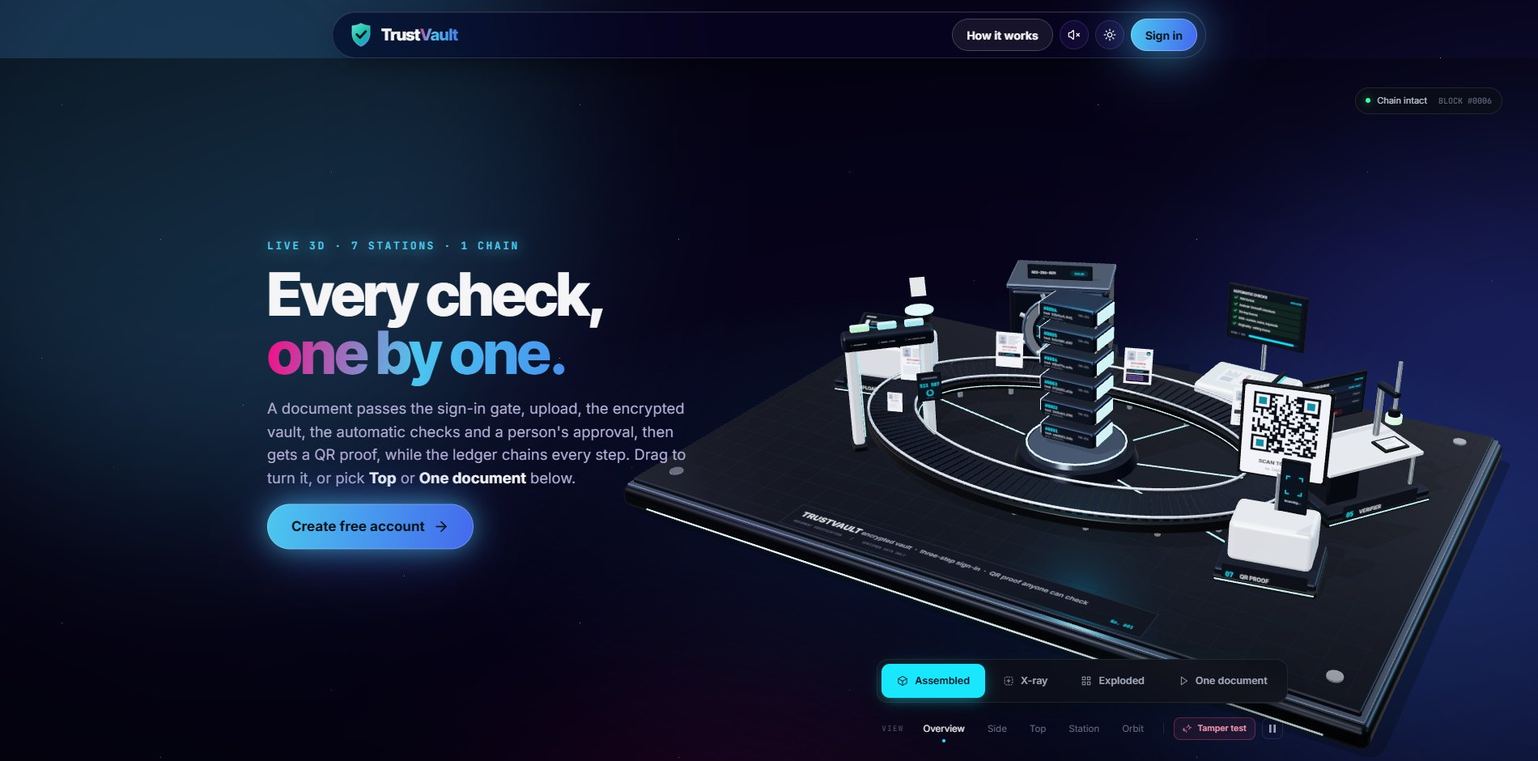
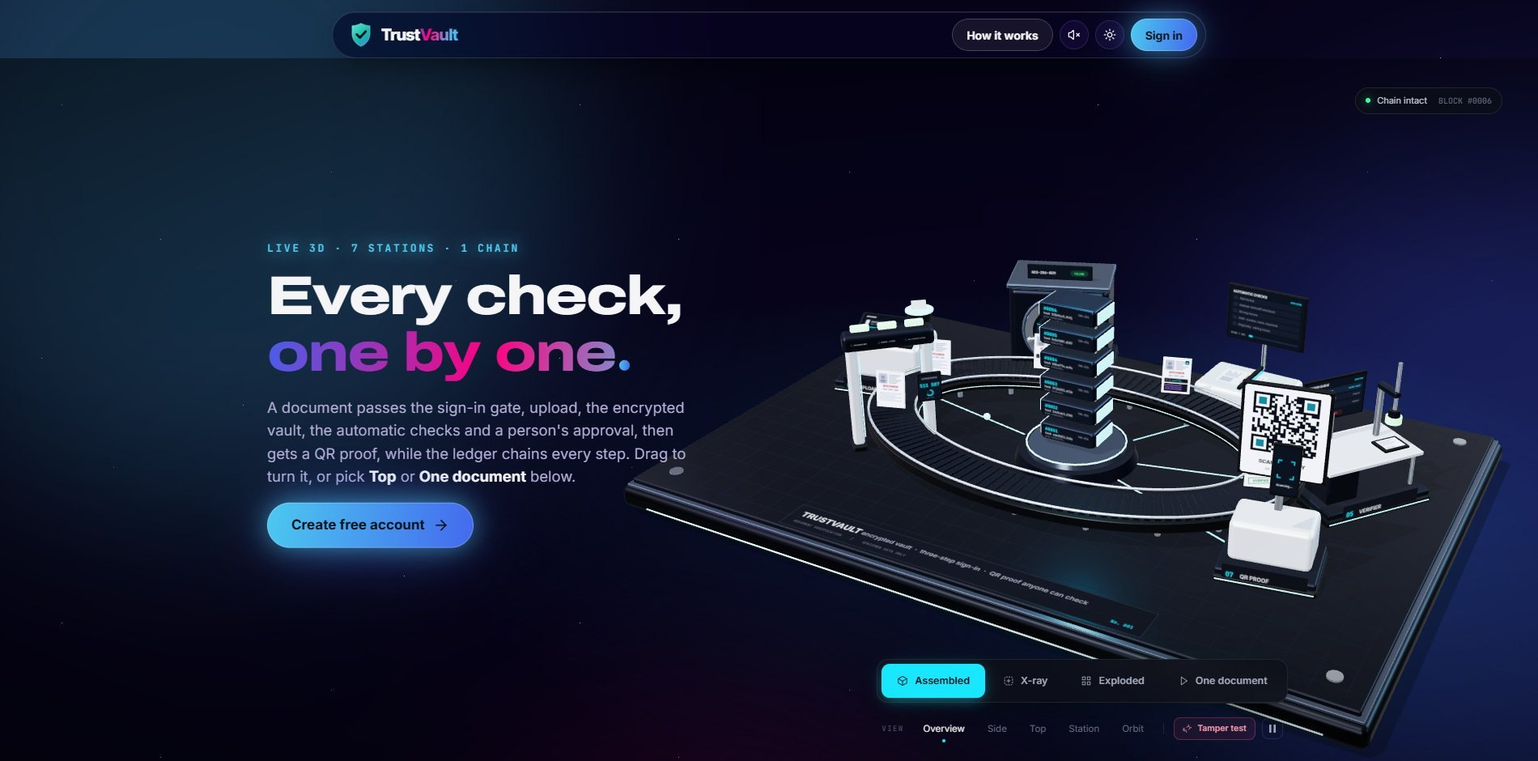
Kinetic heading on the main page: Every check, one by one
After the owner's prompt-motion reference film: Archivo wide 800 rises out of a mask line, 'one by one'
squeezes like an accordion into its full stop, the stop becomes a pill that shows OCR, Checksum,
Number match, Score 96% and Verified, then the letters spring back out. Pure function of the clock
(closed-form springs), pauses off screen, plain sentence for screen readers, still with reduced motion.
Browser check added (Chrome and Edge 48/48), sprint 3 review and README pictures updated.

diff --git a/client/src/pages/landing-headline.jsx b/client/src/pages/landing-headline.jsx
@@ -1,0 +1,165 @@
+// "Every check, one by one." as kinetic type, after the prompt-motion "develop." film by @twoclipping:
+// wide heavy type rises out of a mask line; "one by one" squeezes like an accordion into its full stop,
+// the stop grows into a pill that shows each check in turn (OCR, Checksum, Number match, Score, Verified),
+// then shrinks back into the stop and the letters spring back out. Every style is a pure function of the
+// clock (closed-form springs, no CSS transitions or timers), so the loop never drifts. It pauses off screen.
+// Reduced motion: the still heading. Screen readers get the plain sentence.
+import { useEffect, useRef } from 'react';
+import { Check, ShieldCheck } from 'lucide-react';
+
+const PERIOD = 12; // seconds per loop; the heading rests from 9.2 s to 15 s (= 3 s into the next loop)
+const SQUEEZE = 3; // letters fold into the stop
+const GROW = 3.45; // the stop becomes a pill
+const SHRINK = 8.1; // the pill becomes the stop again
+const BACK = 8.5; // letters spring back out
+const LABELS = [
+  { at: 3.7, text: 'OCR', icon: 'check' },
+  { at: 4.45, text: 'Checksum', icon: 'check' },
+  { at: 5.2, text: 'Number match', icon: 'check' },
+  { at: 5.95, text: 'Score', icon: 'score' },
+  { at: 6.95, text: 'Verified', icon: 'shield' },
+];
+const OUT = SHRINK - 0.1; // the last label leaves just before the pill shrinks
+
+// Closed-form step response of a damped spring, 0 -> 1 (w: stiffness as angular frequency, z: damping ratio).
+function spring(t, w = 20, z = 0.7) {
+  if (t <= 0) return 0;
+  const wd = w * Math.sqrt(1 - z * z);
+  return 1 - Math.exp(-z * w * t) * (Math.cos(wd * t) + ((z * w) / wd) * Math.sin(wd * t));
+}
+const ease = (x) => Math.min(1, Math.max(0, x));
+// Width of the letters, 1 = full: an accelerating fold into the stop, then a bouncy spring back.
+const fold = (t) => (t < BACK ? 1 - ease((t - SQUEEZE) / 0.42) ** 3 : spring(t - BACK, 17, 0.66)); // ~6% overshoot: a bounce that stays inside the margin
+
+export function CheckHeadline({ id }) {
+  const root = useRef(null);
+
+  useEffect(() => {
+    const el = root.current;
+    if (!el || matchMedia('(prefers-reduced-motion: reduce)').matches) return undefined;
+    const word = el.querySelector('.kt-word');
+    const slot = el.querySelector('.kt-slot');
+    const pill = el.querySelector('.kt-pill');
+    const paint = el.querySelector('.kt-paint');
+    const bar = el.querySelector('.kt-bar');
+    const blur = el.querySelector('feGaussianBlur');
+    const labels = [...el.querySelectorAll('.kt-label')];
+    const icons = labels.map((l) => l.querySelector('.kt-ico'));
+    const num = el.querySelector('.kt-num');
+    let m = null; // measurements in px, taken when the font is in and on every resize
+
+    const measure = () => {
+      const fs = parseFloat(getComputedStyle(el).fontSize);
+      const d = slot.offsetWidth;
+      const h = fs * 0.82;
+      const pad = fs * 0.32;
+      m = {
+        d, h, pad,
+        dotX: slot.offsetLeft, dotY: slot.offsetTop + slot.offsetHeight - d, // the stop sits on the baseline
+        midY: word.offsetTop + word.offsetHeight * 0.52 - h / 2, // pill centred on the line
+        widths: labels.map((l) => l.scrollWidth + pad * 2),
+      };
+    };
+
+    const seek = (t) => {
+      if (!m) return;
+      const { d, h, pad, dotX, dotY, midY, widths } = m;
+      // letters: accordion fold toward the stop, horizontal motion blur from the speed
+      const k = fold(t);
+      const speed = Math.abs(k - fold(t - 1 / 60)) * 60;
+      word.style.transform = `scaleX(${Math.max(0.001, k).toFixed(4)})`;
+      word.style.opacity = k < 0.02 ? '0' : '1';
+      const b = Math.min(10, speed * 2.2);
+      blur.setAttribute('stdDeviation', `${b.toFixed(2)} 0`);
+      word.style.filter = b > 0.15 ? 'url(#kt-mb)' : 'none';
+
+      // the stop -> pill -> stop: one spring per change of size and place
+      const grow = spring(t - GROW, 16, 0.62);
+      const shrink = spring(t - SHRINK, 18, 0.72);
+      const open = grow - shrink;
+      let w = d + (widths[0] - d) * grow;
+      LABELS.forEach((_, i) => { if (i) w += (widths[i] - widths[i - 1]) * spring(t - LABELS[i].at, 18, 0.7); });
+      w += (d - widths[widths.length - 1]) * shrink;
+      const ph = d + (h - d) * open;
+      const x = dotX * (1 - spring(t - GROW, 14, 0.78) + spring(t - SHRINK, 15, 0.8));
+      const y = dotY + (midY - dotY) * open;
+      pill.style.transform = `translate(${x.toFixed(2)}px, ${y.toFixed(2)}px)`;
+      pill.style.width = `${Math.max(d, w).toFixed(2)}px`;
+      pill.style.height = `${Math.max(d, ph).toFixed(2)}px`;
+
+      // labels rise out of the pill's mask line and leave through the top; icons pop on a spring
+      labels.forEach((l, i) => {
+        const inT = LABELS[i].at;
+        const outT = LABELS[i + 1]?.at ?? OUT;
+        const p = spring(t - inT, 22, 0.8) - spring(t - outT, 22, 0.8);
+        const yy = (1 - spring(t - inT, 22, 0.8)) * h - spring(t - outT, 22, 0.8) * h;
+        l.style.transform = `translate(${pad}px, ${yy.toFixed(2)}px)`;
+        l.style.visibility = p > 0.001 ? 'inherit' : 'hidden';
+        if (icons[i]) icons[i].style.transform = `scale(${Math.max(0, spring(t - inT - 0.12, 26, 0.45)).toFixed(3)})`;
+      });
+      // the score counts up while a bar draws across the bottom of the pill
+      const s = LABELS[3].at;
+      const sc = ease((t - s - 0.1) / 0.75);
+      num.textContent = `${Math.round(96 * (1 - (1 - sc) ** 3))}%`;
+      bar.style.transform = `scaleX(${sc.toFixed(3)})`;
+      bar.style.opacity = t > s && t < LABELS[4].at + 0.15 ? '1' : '0';
+      // Verified paints the pill green from the left
+      paint.style.transform = `scaleX(${Math.max(0, spring(t - LABELS[4].at, 14, 0.85) - spring(t - SHRINK, 22, 0.9)).toFixed(3)})`;
+    };
+
+    let clock = 0;
+    let last = performance.now();
+    let raf = 0;
+    let onScreen = true;
+    let frozen = false;
+    // For screenshots and browser tests: show the heading at time t (seconds into the loop) and hold it there.
+    el.seekForTest = (t) => { frozen = true; clock = t % PERIOD; seek(clock); };
+    const frame = (now) => {
+      raf = requestAnimationFrame(frame);
+      const dt = Math.min(0.05, (now - last) / 1000);
+      last = now;
+      if (!onScreen || frozen) return;
+      clock = (clock + dt) % PERIOD;
+      seek(clock);
+    };
+    const io = new IntersectionObserver(([e]) => { onScreen = e.isIntersecting; });
+    io.observe(el);
+    const ro = new ResizeObserver(() => { measure(); seek(clock); });
+    let alive = true; // the font can arrive after this effect was cleaned up (and React StrictMode mounts twice)
+    document.fonts.load('800 expanded 1em Archivo').catch(() => {}).then(() => { // expanded = the 125% width
+      if (!alive) return;
+      measure();
+      ro.observe(el);
+      ro.observe(word); // the word changes size when the web font swaps in
+      el.classList.add('kt-live');
+      raf = requestAnimationFrame(frame);
+    });
+    return () => { alive = false; cancelAnimationFrame(raf); io.disconnect(); ro.disconnect(); el.classList.remove('kt-live'); };
+  }, []);
+
+  return (
+    <h2 id={id} className="kt" ref={root}>
+      <span className="sr-only">Every check, one by one.</span>
+      <span className="kt-line" aria-hidden="true"><span>Every check,</span></span>
+      <span className="kt-line kt-l2" aria-hidden="true">
+        <span className="kt-rise">
+          <span className="kt-word">one by one</span><span className="kt-slot" />
+          <span className="kt-pill">
+            <span className="kt-paint" />
+            {LABELS.map((l) => (
+              <span key={l.text} className={`kt-label ${l.icon === 'shield' ? 'kt-ok' : ''}`}>
+                {l.icon === 'check' && <span className="kt-ico"><Check /></span>}
+                {l.icon === 'shield' && <span className="kt-ico"><ShieldCheck /></span>}
+                {l.text}{l.icon === 'score' && <b className="kt-num">96%</b>}
+              </span>
+            ))}
+            <span className="kt-bar" />
+          </span>
+        </span>
+      </span>
+      <svg width="0" height="0" className="absolute" aria-hidden="true" focusable="false">
+        <filter id="kt-mb" x="-30%" y="0" width="160%" height="100%"><feGaussianBlur stdDeviation="0 0" /></filter>
+      </svg>
+    </h2>
+  );
+}

diff --git a/client/src/landing.css b/client/src/landing.css
@@ -79,7 +79,25 @@
 /* ---------- first screen: the 3D vault (components/ui/trustvault-3d.jsx); copy above it on phones, beside it on wide screens ---------- */
 .lp-3d { position: relative; z-index: 2; }
 .lp-3d-copy { position: relative; z-index: 3; display: grid; justify-items: start; gap: 18px; width: min(560px, calc(100% - 40px)); margin: clamp(28px, 5vh, 56px) auto 0; }
-.lp-3d-copy h2 { font-size: clamp(2.3rem, 5.2vw, 4.6rem); line-height: 0.98; font-weight: 800; letter-spacing: -0.035em; }
+/* the heading as kinetic type (pages/landing-headline.jsx): Archivo wide 800, like the prompt-motion "develop." film */
+.kt { --kt-a: var(--cyan); --kt-b: var(--purple); --kt-c: var(--hot); position: relative; font: 800 clamp(2rem, 10.4vw, 4.2rem)/1.04 "Archivo", var(--font-display); font-stretch: 125%; letter-spacing: -0.04em; }
+:root:not(.dark) .kt { --kt-a: #0891b2; --kt-b: #6366f1; --kt-c: #4f46e5; --kt-ok: #4ade80; } /* bright green keeps the dark Verified text readable */
+.kt-line { display: block; white-space: nowrap; clip-path: inset(-0.3em -100vw -0.32em -100vw); } /* the mask line the words rise out of */
+.kt-line > span { display: inline-block; animation: lp-line 1.1s var(--ease-out-expo) both; }
+.kt-l2 > span { animation-delay: 0.14s; }
+.kt-rise { position: relative; }
+.kt-word { display: inline-block; transform-origin: 100% 50%; padding-right: 0.02em; background: linear-gradient(100deg, var(--kt-a), var(--kt-b) 45%, var(--kt-c) 75%, var(--kt-a)) 0 0 / 220% 100%; -webkit-background-clip: text; background-clip: text; color: transparent; animation: shimmer 5s linear infinite; }
+.kt-slot { display: inline-block; width: 0.2em; height: 0.2em; margin-left: 0.05em; border-radius: 50%; background: var(--kt-a); }
+.kt-pill { display: none; position: absolute; left: 0; top: 0; overflow: hidden; border-radius: 999px; background: linear-gradient(100deg, var(--kt-a), var(--kt-b)); color: var(--on-accent); box-shadow: 0 0 34px -8px var(--kt-a); }
+.kt-live .kt-slot { visibility: hidden; }
+.kt-live .kt-pill { display: block; }
+.kt-paint { position: absolute; inset: 0; background: var(--kt-ok, var(--success)); transform: scaleX(0); transform-origin: 0 50%; }
+.kt-label { position: absolute; left: 0; top: 0; display: flex; align-items: center; gap: 0.35em; height: 2.41em; font: 700 max(12px, 0.34em)/1 var(--font-sans); font-stretch: 100%; letter-spacing: 0; white-space: nowrap; visibility: hidden; }
+.kt-ok { color: #04140c; } /* on the green paint */
+.kt-ico { display: grid; place-items: center; width: 1.25em; height: 1.25em; border-radius: 50%; background: color-mix(in srgb, currentColor 18%, transparent); }
+.kt-ico svg { width: 0.8em; height: 0.8em; stroke-width: 3; }
+.kt-num { font-variant-numeric: tabular-nums; }
+.kt-bar { position: absolute; left: 0.32em; right: 0.32em; bottom: 0.12em; height: 0.045em; border-radius: 9px; background: currentColor; transform: scaleX(0); transform-origin: 0 50%; opacity: 0; }
 .lp-3d-copy p { max-width: 46ch; font-size: clamp(1rem, 1.25vw, 1.15rem); line-height: 1.55; color: var(--muted-foreground); }
 .lp-3d-copy b { color: var(--foreground); }
 .lp-3d-stage { position: relative; height: clamp(420px, 105vw, 640px); } /* the machine is fitted to the width on narrow screens */
@@ -91,6 +109,7 @@
 @media (min-width: 901px) {
   .lp-3d { height: clamp(620px, calc(100svh - 70px), 980px); }
   .lp-3d-copy { position: absolute; top: 50%; left: max(28px, calc(50% - 620px)); width: min(38%, 520px); margin: 0; transform: translateY(-55%); }
+  .kt { font-size: clamp(2.2rem, 4.6vw, 4.2rem); }
   .lp-3d-stage { position: absolute; inset: 0; height: auto; }
   .lp-3d-wait { left: 42%; }
 }

diff --git a/client/index.html b/client/index.html
@@ -19,7 +19,7 @@
     <script type="application/ld+json">{"@context":"https://schema.org","@type":"SoftwareApplication","name":"TrustVault","applicationCategory":"SecurityApplication","operatingSystem":"Web, Android","url":"https://trustvault-5lgg.onrender.com/welcome","description":"Digital identity and document verification portal with an encrypted vault, three-step sign-in and QR proof anyone can check.","author":{"@type":"Person","name":"SriNithish J K","url":"https://github.com/SriNithish-JK"},"codeRepository":"https://github.com/SriNithish-JK/TrustVault","offers":{"@type":"Offer","price":"0","priceCurrency":"USD"}}</script>
     <link rel="preconnect" href="https://fonts.googleapis.com" />
     <link rel="preconnect" href="https://fonts.gstatic.com" crossorigin />
-    <link href="https://fonts.googleapis.com/css2?family=Inter:wght@400;500;600;700;800&family=JetBrains+Mono:wght@400;500;600;700&family=Inter+Tight:wght@600;700;800;900&display=swap" rel="stylesheet" />
+    <link href="https://fonts.googleapis.com/css2?family=Inter:wght@400;500;600;700;800&family=JetBrains+Mono:wght@400;500;600;700&family=Inter+Tight:wght@600;700;800;900&family=Archivo:wdth,wght@125,800&display=swap" rel="stylesheet" />
     <title>TrustVault - digital identity and document verification portal</title>
   </head>
   <body>

diff --git a/client/src/pages/Landing.jsx b/client/src/pages/Landing.jsx
@@ -15,6 +15,7 @@ import { ParticleShield } from '@/lib/motion-kit';
 import { StoryScroll } from './landing-story';
 import { ApprovalZoom } from './landing-zoom';
 import { HeroCard } from './landing-hero';
+import { CheckHeadline } from './landing-headline';
 
 // three.js is large, so the 3D vault loads on its own after the page.
 // ponytail: if that chunk fails to load, the stage stays empty beside the headline; a retry button is the upgrade.
@@ -199,7 +200,7 @@ function Vault3D() {
     <section className="lp-3d" aria-labelledby="lp-3d-title">
       <div className="lp-3d-copy">
         <span className="lp-eyebrow lp-in">Live 3D · 7 stations · 1 chain</span>
-        <h2 id="lp-3d-title" className="lp-in" style={{ animationDelay: '0.1s' }}>Every check, <span className="lp-neon whitespace-nowrap">one by one.</span></h2>
+        <CheckHeadline id="lp-3d-title" />
         <p className="lp-in" style={{ animationDelay: '0.2s' }}>
           A document passes the sign-in gate, upload, the encrypted vault, the automatic checks and a person&apos;s approval, then gets a QR proof,
           while the ledger chains every step. Drag to turn it, or pick <b>Top</b> or <b>One document</b> below.

diff --git a/docs/agile/sprint-3-review.md b/docs/agile/sprint-3-review.md
@@ -2,7 +2,7 @@
 
 Backlog and acceptance criteria: [sprint-3-backlog.md](sprint-3-backlog.md).
 
-**Result:** all 3 stories done. 5 problems found while checking frames in a real browser, all fixed before release.
+**Result:** all 4 stories done. 10 problems found while checking frames in a real browser, all fixed before release.
 
 ## Story by story
 
@@ -10,6 +10,7 @@ Backlog and acceptance criteria: [sprint-3-backlog.md](sprint-3-backlog.md).
 |---|---|---|---|
 | US-1 | 3D vault, first screen | Done | `client/src/components/ui/trustvault-3d.jsx` (three.js, from the owner's brief) is the first section of the main page: the headline "Every check, one by one." and *Create free account* on the left, the machine on the right (stacked on phones). Modes, views, Top, One document and Tamper test all work; the chain-status pill stays in view. Changes to the brief's `embed` mode for a first screen: the mode bar, journey and status stay visible, the wheel and a vertical swipe scroll the page while a sideways drag turns the machine, and the camera sits a little further back so the plate is not cut off. three.js is its own 173 KB (gzipped) download, fetched only by the main page; the main bundle is unchanged at 102 KB. No WebGL 2 → the page starts with the hero, no error box. |
 | US-2 | Hero card show | Done | `client/src/pages/landing-hero.jsx`: flies in from the left with motion streaks, ten slot-machine reels lock on ABCPS1234F while the score flickers, the three checks tick on as the score counts to 96%, VERIFIED slams down with a spark burst, then one 360° turn shows a TrustVault back. Starts when the card is in view (after the first-visit intro). Scrolling past slides it left and back. Reduced motion: the finished card. |
+| US-4 | Kinetic heading | Done | `client/src/pages/landing-headline.jsx`, after the owner's prompt-motion reference film (@twoclipping): "Every check, one by one." in Archivo at width 125 and weight 800 rises out of a mask line; *one by one* squeezes like an accordion into its full stop with a horizontal motion blur; the stop grows into a pill that shows OCR ✓, Checksum ✓, Number match ✓, Score counting to 96% with a bar, then paints green for Verified; it shrinks back into the stop and the letters spring out. A 12-second loop that rests long enough to read. Every style is computed from the clock with closed-form springs (no video, no CSS transitions), it pauses off screen, screen readers hear the plain sentence, reduced motion shows the still heading. |
 | US-3 | Ship | Done | New browser check for the 3D section; all suites green on Chrome, Edge and Firefox; pushed to GitHub (CI runs the suites again and deploys only when they pass). |
 
 ## Before and after
@@ -23,6 +24,9 @@ After - the 3D vault comes first:
 Phone, light theme - One document, Tamper test, Top view, Assembled:
 ![3D vault on a phone](screens/vault3d-phone-light.jpg)
 
+The kinetic heading (rest, accordion squeeze, the stop, the pill, Checksum, Number match, Score, Verified painted green, shrinking, letters springing back):
+![Kinetic heading](screens/kinetic-heading.jpg)
+
 The hero card show (fly-in, reels, locked, checks, VERIFIED, turn, back face, settled):
 ![Hero card show](screens/hero-card-show.jpg)
 
@@ -32,9 +36,9 @@ The hero card show (fly-in, reels, locked, checks, VERIFIED, turn, back face, se
 |---|---|---|
 | Unit (`npm test`) | 10 | 10 |
 | End-to-end API (`npm run test:e2e`) | 140 | 140 |
-| Browser, Chrome (`npm run test:ui`) | 44 | **46** (3D vault first on the page, One document, Top view, tamper breaks the chain, the wheel is not captured; dark and light) |
-| Browser, Edge | 44 | **46** |
-| Firefox (WebDriver BiDi script) | 5 pages | Main page: 3D vault first and drawn, hero card reaches VERIFIED, no console errors |
+| Browser, Chrome (`npm run test:ui`) | 44 | **48** (3D vault first on the page, One document, Top view, tamper breaks the chain, the wheel is not captured; the heading shows each check in its pill; dark and light) |
+| Browser, Edge | 44 | **48** |
+| Firefox (WebDriver BiDi script) | 5 pages | Main page: 3D vault first and drawn, the heading's pill shows "Number match" at 5.9 s, hero card reaches VERIFIED, no console errors |
 
 Frames were captured in headless Chrome at 1900, 1366, 768 and 390 px in both themes; no sideways scroll at any size.
 
@@ -45,6 +49,11 @@ Frames were captured in headless Chrome at 1900, 1366, 768 and 390 px in both th
 3. **On phones the 3D stage was mostly empty** - the machine is sized to the screen width, so a tall stage left a gap. The stage height now follows the width.
 4. **In light mode the 3D view buttons and the One-document panel were white text on a white page.** They now sit on the same dark glass as the mode bar.
 5. On a 1366×768 laptop the hero card was entirely below the fold, so a show that started "on page open" would have finished unseen; it now starts when the card comes into view.
+6. **The heading's animation ran twice in development** - React mounts effects twice there, and the first mount's font callback started a second loop after its cleanup. A cancel flag stops it.
+7. **"Verified" was dark text on dark green in light mode** - the pill keeps a bright green in both themes.
+8. **The letters sprang back 23% too far**, past the page margin - the spring is calmer now (about 6%).
+9. **The browser rejected the font-loading call** (`125%` is not allowed there); it now asks for `expanded`, the same width.
+10. The new browser check compared the transform text, which browsers rewrite (`scaleX(1.0000)` becomes `scaleX(1)`); it now compares the drawn width.
 
 ## Retrospective
 

diff --git a/docs/agile/sprint-3-backlog.md b/docs/agile/sprint-3-backlog.md
@@ -1,10 +1,10 @@
 # Sprint 3 - main page motion sprint (20 Oct 2026)
 
-**Sprint goal:** make the main page show, not tell, how a document is checked: a 3D model of the whole journey as the first screen, and a hero ID card that verifies itself, without slowing the page or changing the approved neon look.
+**Sprint goal:** make the main page show, not tell, how a document is checked: a 3D model of the whole journey as the first screen, a heading that moves like the reference film, and a hero ID card that verifies itself, without slowing the page or changing the approved neon look.
 
 **Status:** completed 20 Oct 2026 - see the [sprint review](sprint-3-review.md).
 
-**Process:** one-day Scrum-style sprint. Product owner: SriNithish J K. Developer: Claude (pair). Input: the owner's idea for the hero card (fly in, rolling numbers, checked, approved, spin, slide away on scroll; trigger and spin chosen by the owner) and a 3D component brief (`TrustVault-3D-prompt.txt`, three.js, built for this repo).
+**Process:** one-day Scrum-style sprint. Product owner: SriNithish J K. Developer: Claude (pair). Input: the owner's idea for the hero card (fly in, rolling numbers, checked, approved, spin, slide away on scroll; trigger and spin chosen by the owner), a 3D component brief (`TrustVault-3D-prompt.txt`, three.js, built for this repo) and a reference film for the heading's type (prompt-motion, @twoclipping).
 
 ## Product backlog for this sprint
 
@@ -12,6 +12,7 @@
 |---|---|---|---|
 | US-1 | As a **visitor**, I want the first screen to show the document's whole journey as a 3D machine I can turn, so I can watch every check happen one by one. | 5 | Must |
 | US-2 | As a **visitor**, I want the hero ID card to come alive (fly in, numbers roll and lock, checks tick, VERIFIED, a full turn), so "verified automatically" is obvious in seconds. | 3 | Must |
+| US-4 | As a **visitor**, I want the heading "Every check, one by one." to move like the prompt-motion film the owner picked (wide heavy type, an accordion squeeze into the full stop, a pill that shows each check), as live script, not a video. | 2 | Must |
 | US-3 | As the **team**, we want both checked by the browser suite and shipped through CI/CD to the live site. | 1 | Must |
 
 ## Acceptance criteria
@@ -31,6 +32,13 @@
 - VERIFIED slams down (spark burst, sound if sound is on), then the card makes one full 360° turn showing a TrustVault back.
 - Scrolling on past the card slides it away to the left; scrolling back brings it back.
 - Plays once when the card comes into view, after the first-visit "Access granted" intro; with "reduce motion" the finished card is shown.
+
+**US-4 Kinetic heading**
+- Archivo at its widest (125) and boldest (800), lowercase second line ending in a full stop, rising out of a mask line on load.
+- "one by one" squeezes like an accordion into its full stop with a horizontal motion blur; the stop grows into a pill.
+- The pill shows OCR ✓, Checksum ✓, Number match ✓, Score counting to 96% with a bar, then paints green for Verified; each label rises in and out through its own mask.
+- The pill shrinks back into the stop and the letters spring back out; it rests long enough to read, then loops. Pauses off screen.
+- Every frame is computed from the clock (closed-form springs), no video. Screen readers hear the plain sentence; reduced motion shows the still heading; fits 360-1900 px on two lines.
 
 **US-3 Ship**
 - A browser check for the 3D section (first on the page, modes, Top view, tamper, wheel not captured; falls back cleanly without WebGL).

diff --git a/README.md b/README.md
@@ -22,7 +22,9 @@ MCA students keep their ID and academic documents in an encrypted vault. Documen
 
 ## The 3D vault (first screen)
 
-The main page opens on a 3D model of the whole journey, drawn live in the browser with [three.js](https://threejs.org) (no models or images): a specimen document rides a ring conveyor through the sign-in gate, upload, the AES-256-GCM vault, the automatic checks, the human verifier and the QR proof, while the ledger in the middle chains every step. Switch between Assembled, X-ray, Exploded and One document, look from the Top or follow one document, or press **Tamper test** to watch the chain break and heal. Below it, the hero ID card verifies itself: it flies in, the number rolls and locks, the checks tick, VERIFIED stamps down and the card turns, then slides away as you scroll.
+The main page opens on a 3D model of the whole journey, drawn live in the browser with [three.js](https://threejs.org) (no models or images): a specimen document rides a ring conveyor through the sign-in gate, upload, the AES-256-GCM vault, the automatic checks, the human verifier and the QR proof, while the ledger in the middle chains every step. Switch between Assembled, X-ray, Exploded and One document, look from the Top or follow one document, or press **Tamper test** to watch the chain break and heal. Its heading is kinetic type, after a [prompt-motion](https://prompt-motion.com/twoclipping-221cab) launch film: *one by one* squeezes like an accordion into its full stop, the stop grows into a pill that shows each check in turn (OCR, Checksum, Number match, Score 96%, Verified), then the letters spring back out. It is script-driven motion graphics, not a video. Below it, the hero ID card verifies itself: it flies in, the number rolls and locks, the checks tick, VERIFIED stamps down and the card turns, then slides away as you scroll.
+
+<img src="docs/agile/screens/kinetic-heading.jpg" alt="The kinetic heading frame by frame: one by one folds into its full stop, which becomes a pill showing each check, then Verified" width="100%">
 
 <img src="docs/screenshots/landing-2-card.jpg" alt="The hero ID card stamped VERIFIED after its checks" width="100%">
 
@@ -163,6 +165,7 @@ The app is a small shell in [`mobile/`](mobile) that opens the live site full sc
 | [shadcn/ui](https://ui.shadcn.com) + [Tailwind CSS](https://tailwindcss.com) | Component primitives and styling; the design rules are written down in [DESIGN.md](DESIGN.md) |
 | [ui-ux-pro-max-skill](https://github.com/nextlevelbuilder/ui-ux-pro-max-skill) · [21st.dev](https://21st.dev) | Design system (palette, type, UX checklist) and the theme, bento grid and hero the landing page is adapted from |
 | [three.js](https://github.com/mrdoob/three.js) | The interactive 3D vault on the main page (loaded only there, on its own) |
+| [prompt-motion](https://prompt-motion.com/twoclipping-221cab) (film by @twoclipping) · [Archivo](https://fonts.google.com/specimen/Archivo) | The motion style and the wide typeface of the kinetic heading on the main page |
 | [ponytail](https://github.com/DietrichGebert/ponytail) | Minimal-code rules in [AGENTS.md](AGENTS.md), which every change follows |
 
 ---
